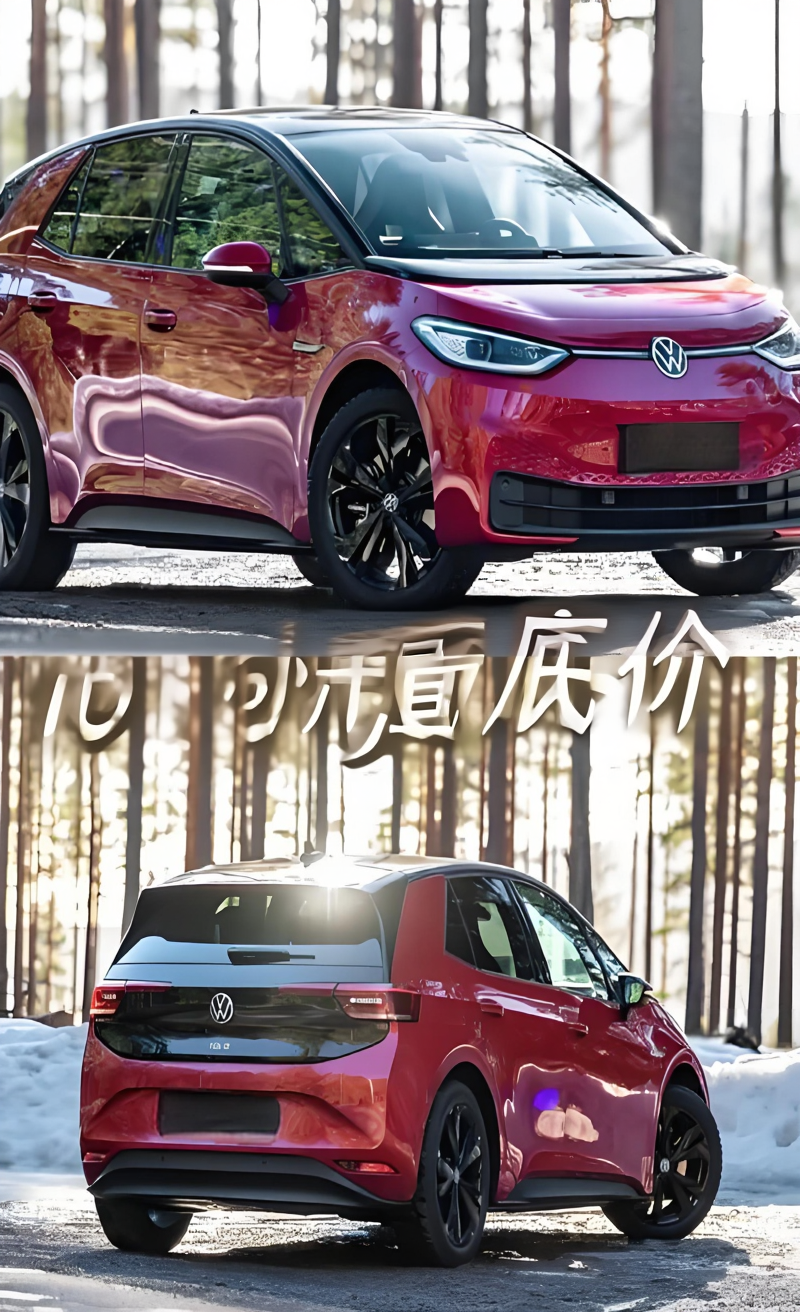
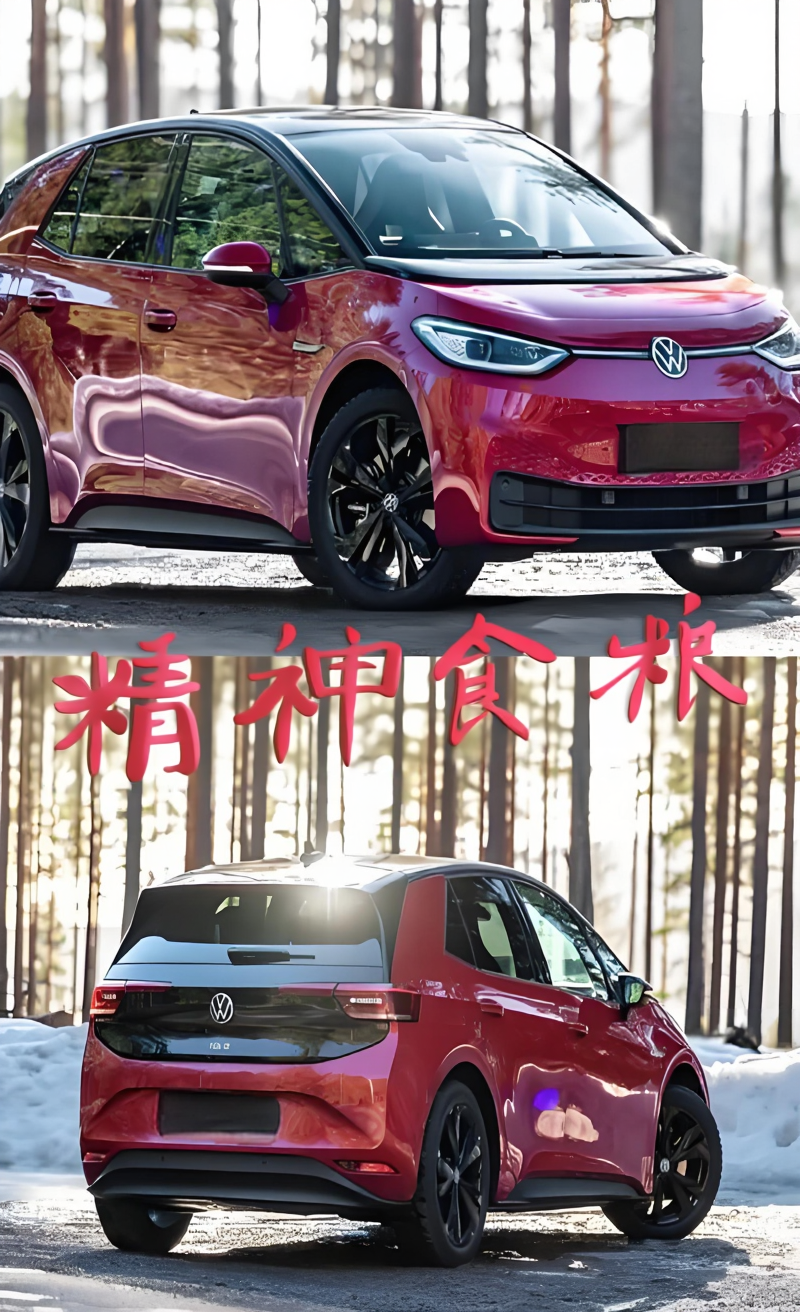
update

Changed region(s): [[0.0312, 0.4375, 0.9375, 0.5938]]

diff --git a/run_infer.py b/run_infer.py
@@ -100,16 +100,16 @@ pipe = model.flux_pipe
 # height = 775
 # width = 581
 
-# hint_path = "/root/paddlejob/workspace/env_run/zhuyinghao/FluxText/eval/glyph_test_mask_rgb.png"
-# img_path = "text_edit/0710-0716-select/wenzi_2025-07-10_2025-07-16/imgs/002_2025-07-15.jpeg"
-# condition_path = "/root/paddlejob/workspace/env_run/zhuyinghao/FluxText/eval/glyph_test.png"
+hint_path = "/root/paddlejob/workspace/env_run/zhuyinghao/FluxText/eval/glyph_test_mask_rgb.png"
+img_path = "text_edit/0710-0716-select/wenzi_2025-07-10_2025-07-16/imgs/002_2025-07-15.jpeg"
+condition_path = "eval/002_2025-07-15_cond.png"
 
 
-hint_path = "assets/hint2.jpg"
-img_path = "assets/hint_imgs2.jpg"
-condition_path = "assets/hint_imgs_word2.jpg"
+# hint_path = "./assets/hint2.png"
+# img_path = "./assets/hint_imgs2.jpg"
+# condition_path = "./eval/glyph_test3.png"
 
-prompt = "Car poster, that reads: ID.3冲量底价"
+prompt = "Car poster, that reads: 精神食粮"
 hint = Image.open(hint_path).convert('RGB')
 img = Image.open(img_path).convert('RGB')
 condition_img = Image.open(condition_path).convert('RGB')

diff --git a/eval/render_glyf.py b/eval/render_glyf.py
@@ -66,11 +66,13 @@ def render_glyph_image(
 
 
 # mask = cv2.imread("/root/paddlejob/workspace/env_run/zhuyinghao/FluxText/assets/hint1.png", cv2.IMREAD_GRAYSCALE)
-mask = cv2.imread("/root/paddlejob/workspace/env_run/zhuyinghao/FluxText/text_edit/0710-0716-select/wenzi_2025-07-10_2025-07-16/mask_vis/002_2025-07-15.png", cv2.IMREAD_GRAYSCALE)
+path = "../text_edit/0710-0716-select/wenzi_2025-07-10_2025-07-16/mask_vis/002_2025-07-15.jpeg"
+# path = "../assets/hint2.png"
+mask = cv2.imread(path, cv2.IMREAD_GRAYSCALE)
 # mask = cv2.imread("/root/paddlejob/workspace/env_run/rmp-individual/zhuyinghao/text_edit/0710-0716-select/wenzi_2025-07-10_2025-07-16/", cv2.IMREAD_GRAYSCALE)
 
-text = "ID.3冲量底价"
-width, height = 581, 775
+text = "精神食粮"
+width, height = mask.shape[1], mask.shape[0]
 font_path = "/root/paddlejob/workspace/env_run/zhuyinghao/FluxText/font/Arial_Unicode.ttf"
 
-glyph = render_glyph_image(mask, text, width, height, font_path, save_path="glyph_test.png")
+glyph = render_glyph_image(mask, text, width, height, font_path, save_path="002_2025-07-15_cond.png")
